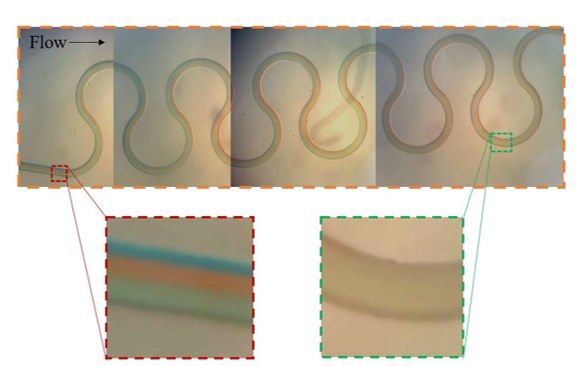
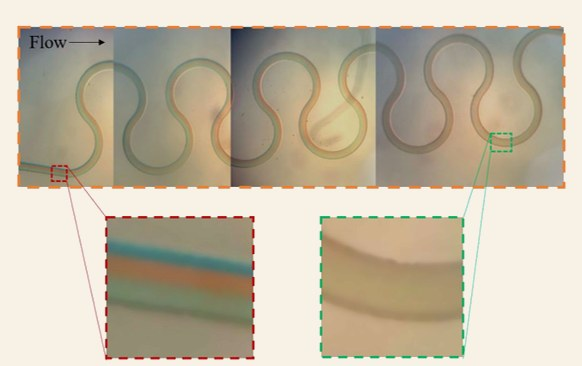
Thesis gallery: tint mixing figures to cream and drop their frames
Claude-Session: https://claude.ai/code/session_019XjcnZCmFjdjA7N8MMH7qV

Changed region(s): [[0.0, 0.0, 1.0, 1.0]]

diff --git a/index.html b/index.html
@@ -1758,7 +1758,7 @@ html.js-reveal .reveal.is-revealed { opacity: 1; transform: none; }
           <li class="bench-photo" tabindex="0" role="button" aria-label="Enlarge photo: The loop does the mixing">
             <span class="tape" aria-hidden="true"></span>
             <img src="images/thesis/mixing-loop.jpg" alt="Microscope view of one loop of the mixing channel, with orange, yellow and green dyed streams blending as they turn" loading="lazy" onerror="handleImgError(this, 'PHOTO', '#e3d6c2')">
-            <figcaption><span class="bench-script">The loop does the mixing</span><span class="bench-stage">Testing</span><span class="bench-fig">Each tight turn sets up swirling vortices that fold the dyed streams into one another</span><span class="bench-note"><span class="bench-note-lead">At this scale the flow is laminar, so the cell stream and the plasmid stream would run side by side and never touch. The serpentine loops break that up: as the streams round each curve, hydrodynamic forces (Dean vortices) shift them across the channel, folding one into the other. Pushing the electroporated cells and the plasmid together is what lets the plasmid diffuse into the cells through their open pores.</span><span class="bench-cad"><span class="bench-cad-head">Mixing the streamlines</span><span class="bench-cad-fig bench-cad-fig--wide"><img src="images/thesis/mix-region.jpg" alt="The full serpentine mixing region: three dyed streams start as separate bands and blend together loop by loop" loading="lazy"><span>Across the whole mixing region the blue, red and green streams start as distinct bands, then blend loop by loop until they are mixed.</span></span><span class="bench-cad-row"><span class="bench-cad-fig"><img src="images/thesis/mix-loop-flow.jpg" alt="One loop of the mixing channel with dyed streams following the curve" loading="lazy"><span>One loop under the microscope, the dyed streams following the curve.</span></span><span class="bench-cad-fig"><img src="images/thesis/mix-loop-arrows.jpg" alt="The same loop traced with red, yellow and green arrows showing each stream crossing from inside the curve to outside and back" loading="lazy"><span>Traced: each stream crosses from the inside of the curve to the outside and back, so the three interleave.</span></span></span></span><span class="bench-takeaway">Better contact between the cells and the plasmid raises the chance of uptake, so the mixing region is what turns “electroporated” into “actually carrying the plasmid.”</span></span></figcaption>
+            <figcaption><span class="bench-script">The loop does the mixing</span><span class="bench-stage">Testing</span><span class="bench-fig">Each tight turn sets up swirling vortices that fold the dyed streams into one another</span><span class="bench-note"><span class="bench-note-lead">At this scale the flow is laminar, so the cell stream and the plasmid stream would run side by side and never touch. The serpentine loops break that up: as the streams round each curve, hydrodynamic forces (Dean vortices) shift them across the channel, folding one into the other. Pushing the electroporated cells and the plasmid together is what lets the plasmid diffuse into the cells through their open pores.</span><span class="bench-cad"><span class="bench-cad-head">Mixing the streamlines</span><span class="bench-cad-fig bench-cad-fig--wide bench-cad-fig--plain"><img src="images/thesis/mix-region.jpg" alt="The full serpentine mixing region: three dyed streams start as separate bands and blend together loop by loop" loading="lazy"><span>Across the whole mixing region the blue, red and green streams start as distinct bands, then blend loop by loop until they are mixed.</span></span><span class="bench-cad-row"><span class="bench-cad-fig bench-cad-fig--plain"><img src="images/thesis/mix-loop-flow.jpg" alt="One loop of the mixing channel with dyed streams following the curve" loading="lazy"><span>One loop under the microscope, the dyed streams following the curve.</span></span><span class="bench-cad-fig bench-cad-fig--plain"><img src="images/thesis/mix-loop-arrows.jpg" alt="The same loop traced with red, yellow and green arrows showing each stream crossing from inside the curve to outside and back" loading="lazy"><span>Traced: each stream crosses from the inside of the curve to the outside and back, so the three interleave.</span></span></span></span><span class="bench-takeaway">Better contact between the cells and the plasmid raises the chance of uptake, so the mixing region is what turns “electroporated” into “actually carrying the plasmid.”</span></span></figcaption>
           </li>
           <li class="bench-photo bench-photo--fit bench-photo--bang" tabindex="0" role="button" aria-label="Enlarge photo: It glows!">
             <span class="tape" aria-hidden="true"></span>
